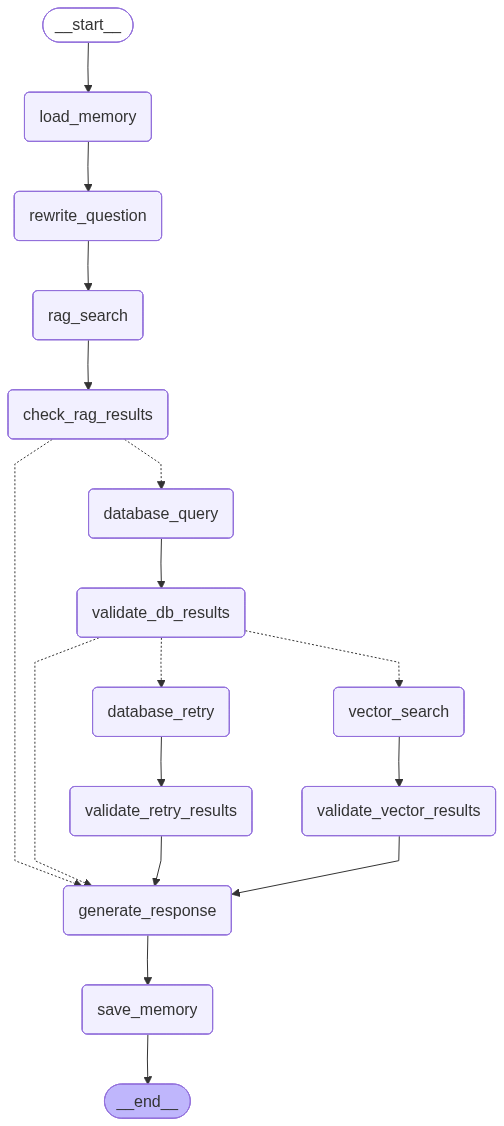
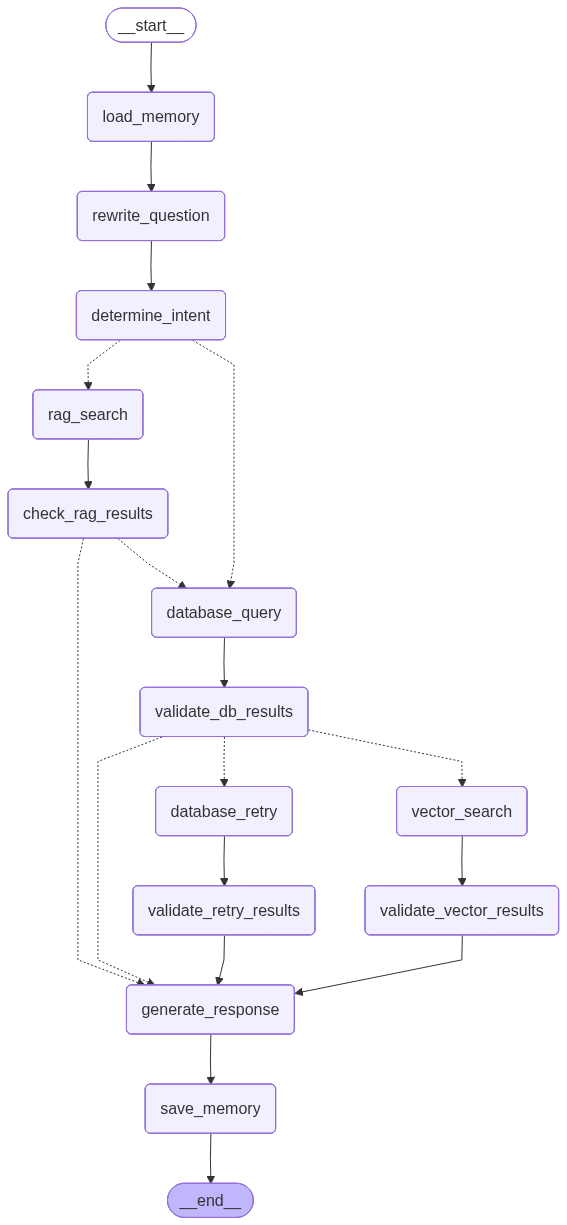
Fix database query has additional format.

diff --git a/src/kangni_agents/agents/react_agent.py b/src/kangni_agents/agents/react_agent.py
@@ -333,6 +333,7 @@ class KangniReActAgent:
         # 添加节点
         workflow.add_node("load_memory", self.load_memory_info)
         workflow.add_node("rewrite_question", self.rewrite_question_with_memory)
+        workflow.add_node("determine_intent", self.determine_intent)
         workflow.add_node("rag_search", self.execute_rag_search)
         workflow.add_node("check_rag_results", self.check_rag_results)
         workflow.add_node("database_query", self.execute_database_query)
@@ -349,7 +350,24 @@ class KangniReActAgent:
         
         # 添加边
         workflow.add_edge("load_memory", "rewrite_question")
-        workflow.add_edge("rewrite_question", "rag_search")
+        workflow.add_edge("rewrite_question", "determine_intent")
+        
+        # 根据意图决定走向：若更偏数据库，直接进入数据库查询；否则先RAG
+        def route_by_intent(state: AgentState) -> str:
+            intent = state.get("intent")
+            logger.info(f"Routing by intent: {intent}")
+            if intent == QueryType.DATABASE:
+                return "database_query"
+            return "rag_search"
+
+        workflow.add_conditional_edges(
+            "determine_intent",
+            route_by_intent,
+            {
+                "rag_search": "rag_search",
+                "database_query": "database_query",
+            },
+        )
         workflow.add_edge("rag_search", "check_rag_results")
         
         # 条件边：检查RAG结果
@@ -483,6 +501,23 @@ class KangniReActAgent:
                 **state,
                 "original_query": original_query,
                 "rewritten_query": original_query
+            }
+
+    async def determine_intent(self, state: AgentState) -> AgentState:
+        """基于改写后的问题做一个快速意图判断，决定是否跳过RAG直接查库"""
+        query = state.get("rewritten_query") or state["query"]
+        try:
+            inferred_intent = intent_classifier.classify_intent(query)
+            logger.info(f"Intent determined: {inferred_intent}")
+            return {
+                **state,
+                "intent": inferred_intent
+            }
+        except Exception as e:
+            logger.warning(f"Intent classification failed, fallback to HYBRID: {e}")
+            return {
+                **state,
+                "intent": QueryType.HYBRID
             }
         
         try:

diff --git a/src/kangni_agents/services/database_service.py b/src/kangni_agents/services/database_service.py
@@ -160,6 +160,7 @@ class DatabaseService:
 7. 如果无法确定使用哪个DDL或者数据库描述，返回 "INSUFFICIENT_INFO"
 
 特别注意：当用户提到"订单"但没有指定具体类型时，默认查询表 kn_quality_trace_prod_order（生产订单表）
+此外：如果选择的表是 kn_quality_trace_prod_order（生产订单表），并且用户问题中提到了“订单号/工单号/单号/订单编号/工单编号”等与订单号相关的描述，请使用字段 workorderno_s，而不是 orderno_s。
 
 数据库表结构信息DDL：
 {ddl_context}
@@ -193,6 +194,7 @@ class DatabaseService:
 步骤2：列出选择的DDL或者数据库描述中的表结构和字段信息
 步骤3：确认所有要使用的字段都来自同一个DDL或者数据库描述中的表结构
 步骤4：生成SQL查询
+步骤5：返回JSON格式，如果包含Markdown代码块，清理掉markdown代码块包裹（例如 ```json ... ``` 或 ``` ... ```）
 
 严格以JSON格式输出（不要包含多余文字），字段如下：
 {{
@@ -214,6 +216,18 @@ class DatabaseService:
                 human_prompt
             )
             sql_query = sql_query.strip() if isinstance(sql_query, str) else str(sql_query).strip()
+            
+            # 清理可能的markdown代码块包裹（例如 ```json ... ``` 或 ``` ... ```）
+            def strip_code_fences(text: str) -> str:
+                s = text.strip()
+                if s.startswith("```json"):
+                    s = s[len("```json"):].lstrip()
+                elif s.startswith("```"):
+                    s = s[len("```"):].lstrip()
+                if s.endswith("```"):
+                    s = s[:-3].rstrip()
+                return s
+            sql_query = strip_code_fences(sql_query)
 
             # 解析为诊断JSON；若解析失败则将其视为直接SQL
             diagnostics: Dict[str, Any] = {}

diff --git a/src/kangni_agents/utils/intent_classifier.py b/src/kangni_agents/utils/intent_classifier.py
@@ -10,7 +10,6 @@ class IntentClassifier:
         # RAG相关关键词
         self.rag_keywords = [
             "总结", "summarize", "summary", "概述", "概要",
-            "为什么", "why", "原因", "reason", "因为",
             "如何", "怎么", "how", "方法", "步骤",
             "什么是", "what is", "定义", "definition", "解释", "explain",
             "背景", "background", "历史", "history",
@@ -36,9 +35,7 @@ class IntentClassifier:
         # 明确的数据库操作词汇
         self.explicit_db_keywords = [
             "多少", "几个", "多少个", "有多少",
-            "总共", "一共", "总计", "合计",
-            "查看", "显示", "show", "display",
-            "列出", "list", "列表"
+            "总共", "一共", "总计", "合计", "统计"
         ]
     
     def classify_intent(self, question: str) -> QueryType:
@@ -57,14 +54,12 @@ class IntentClassifier:
             db_score += explicit_db_score * 2
         
         # 检查SQL相关词汇
-        if any(word in question_lower for word in ["sql", "表", "table", "字段", "field"]):
+        if any(word in question_lower for word in ["数据库", "db", "database", "sql", "表", "table", "字段", "field"]):
             db_score += 1
         
         # 判断意图
         if db_score > rag_score and db_score > 0:
             return QueryType.DATABASE
-        elif rag_score > db_score and rag_score > 0:
-            return QueryType.RAG
         elif rag_score == db_score and rag_score > 0:
             return QueryType.HYBRID
         else:

diff --git a/src/kangni_agents/services/rag_service.py b/src/kangni_agents/services/rag_service.py
@@ -153,9 +153,9 @@ class RAGFlowService:
         
         # 并行搜索三个数据集
         tasks = [
-            ("ddl", self._search_rag(query, [settings.db_ddl_dataset_id])),
-            ("query_sql", self._search_rag(query, [settings.db_query_sql_dataset_id])),
-            ("description", self._search_rag(query, [settings.db_description_dataset_id]))
+            ("ddl", self._search_rag(query, [settings.db_ddl_dataset_id], similarity_threshold=0.1)),
+            ("query_sql", self._search_rag(query, [settings.db_query_sql_dataset_id], similarity_threshold=0.1)),
+            ("description", self._search_rag(query, [settings.db_description_dataset_id], similarity_threshold=0.1))
         ]
         
         for name, task in tasks:

diff --git a/src/test/test_cases.py b/src/test/test_cases.py
@@ -207,7 +207,7 @@ async def run_all_tests():
     failed = 0
     
     for i, test_case in enumerate(test_cases, 1):
-        # if(i not in [21]):  # Test both SQL and keyword validation
+        # if(i not in [16]):  # Test both SQL and keyword validation
         #     continue
         question = test_case.get("question", "")
         keywords = test_case.get("keywords", [])

diff --git a/src/kangni_agents/models/__init__.py b/src/kangni_agents/models/__init__.py
@@ -3,7 +3,6 @@ from typing import List, Optional, Dict, Any
 from enum import Enum
 
 class QueryType(str, Enum):
-    RAG = "rag"
     DATABASE = "database" 
     HYBRID = "hybrid"
 
